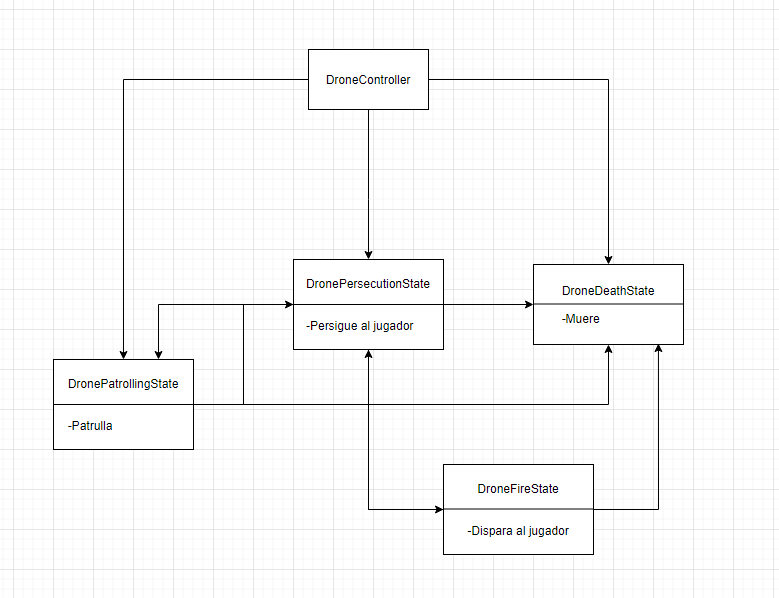
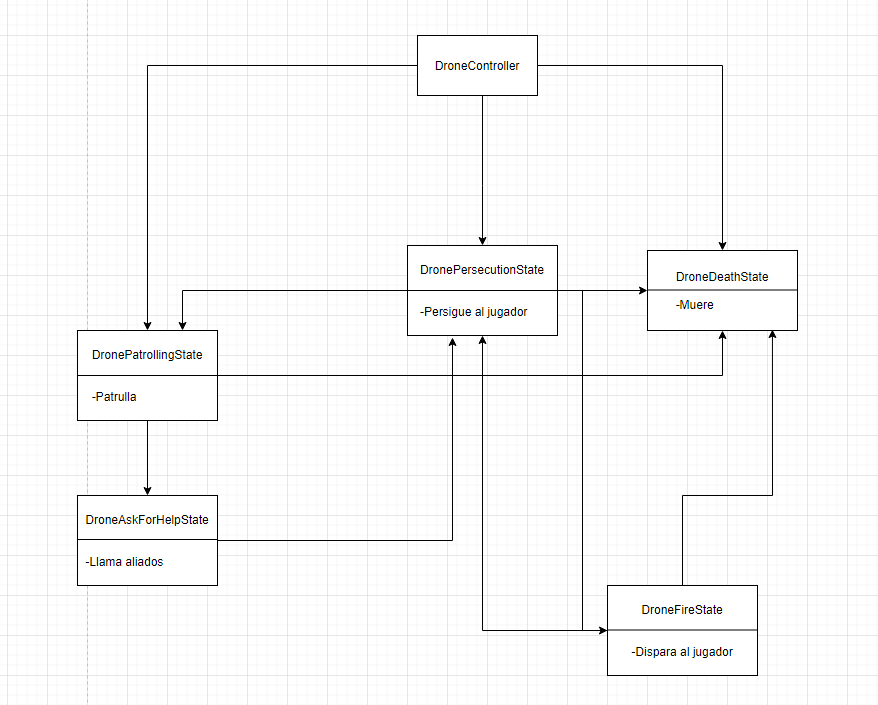
Dron casi terminado

diff --git a/Game/Assets/Game/Scripts/IA/Enemy/Drone/States/DroneAskForHelpState.cs b/Game/Assets/Game/Scripts/IA/Enemy/Drone/States/DroneAskForHelpState.cs
@@ -1,0 +1,70 @@
+using System.Collections;
+using System.Collections.Generic;
+using UnityEngine;
+
+public class DroneAskForHelpState : State
+{
+    #region Variables
+    private readonly EnemyDroneController _enemyController;
+    private float _askForHelpTime;
+    private List<EnemyController> _allies;
+    #endregion
+
+    public DroneAskForHelpState(EnemyDroneController enemyController, MyStateMachine stateMachine) : base(stateMachine)
+    {
+        _enemyController = enemyController;
+        _askForHelpTime = 0.5f;
+        _enemyController.mesh.material = _enemyController.persecutionMaterial;
+
+        _enemyController.playerDetected = true;
+        _enemyController.Agent.speed = 0;
+        _enemyController.Agent.stoppingDistance = 10f;
+
+        //_allies = GameObject.FindObjectsOfType<EnemyController>();
+        _allies = new List<EnemyController>();
+        RaycastHit[] hits;
+        hits = Physics.SphereCastAll(_enemyController.transform.position, 40, _enemyController.player.transform.up, 1 << 16);
+
+        foreach (RaycastHit hit in hits)
+        {
+            if (hit.transform.GetComponent<EnemyController>())
+            {
+                _allies.Add(hit.transform.GetComponent<EnemyController>());
+            }
+        }
+
+        // if (_enemyController.Agent.enabled)
+        // _enemyController.Agent.isStopped = true;
+    }
+
+    public override void Update(float deltaTime)
+    {
+        base.Update(deltaTime);
+
+        if (Physics.CheckSphere(_enemyController.transform.position, _enemyController.lookingForPlayerArea, 1 << 10))
+        {
+            //  Debug.Log("Player in Area");
+            if (_enemyController.CheckPlayerVision(_enemyController.player.transform.position, 10))
+            {
+                Quaternion currentRot = Quaternion.LookRotation(_enemyController.player.position - _enemyController.transform.position);
+                _enemyController.transform.rotation = Quaternion.Lerp(_enemyController.transform.rotation, currentRot, 8 * Time.deltaTime);
+            }
+
+        }
+
+        if (_askForHelpTime <= 0)
+        {
+            foreach (EnemyController ally in _allies)
+            {
+                ally.AskForHelp();
+            }
+            stateMachine.SetState(new DronePersecutionState(_enemyController, stateMachine));
+        }
+        else
+        {
+            _askForHelpTime -= Time.deltaTime;
+        }
+
+
+    }
+}

diff --git a/Game/Assets/Game/Scripts/IA/Enemy/Drone/States/DronePersecutionState.cs b/Game/Assets/Game/Scripts/IA/Enemy/Drone/States/DronePersecutionState.cs
@@ -29,7 +29,8 @@ public class DronePersecutionState : State
 
         if (Physics.CheckSphere(_enemyController.transform.position, _enemyController.lookingForPlayerArea, 1 << 10))
         {
-            //Debug.Log("DRONE Player in Area");
+            Debug.Log("DRONE Player in Area");
+
             if (_enemyController.CheckPlayerVision(_enemyController.player.transform.position, 10))
             {
                 _enemyController.Agent.SetDestination(_enemyController.player.position);
@@ -49,7 +50,7 @@ public class DronePersecutionState : State
         else if (Vector3.Distance(_enemyController.transform.position, playerLocation) <= _enemyController.Agent.stoppingDistance || (_enemyController.Agent.pathStatus == NavMeshPathStatus.PathInvalid || _enemyController.Agent.pathStatus == NavMeshPathStatus.PathPartial))
         {
             lostLocationTimer -= Time.deltaTime;
-            //Debug.Log(_enemyController.Agent.pathStatus);
+            Debug.Log("DRONE: " + _enemyController.Agent.pathStatus);
         }
 
 

diff --git a/Game/Assets/Game/Scripts/IA/Enemy/Drone/EnemyDroneController.cs b/Game/Assets/Game/Scripts/IA/Enemy/Drone/EnemyDroneController.cs
@@ -74,6 +74,13 @@ public class EnemyDroneController : EnemyController
     {
         print("DRONE PlayerDetected: " + playerDetected);
         if (!playerDetected)
+            stateMachine.SetState(new DroneAskForHelpState(this, stateMachine));
+    }
+
+    public override void AskForHelp()
+    {
+        base.AskForHelp();
+        if (!playerDetected)
             stateMachine.SetState(new DronePersecutionState(this, stateMachine));
     }
 
